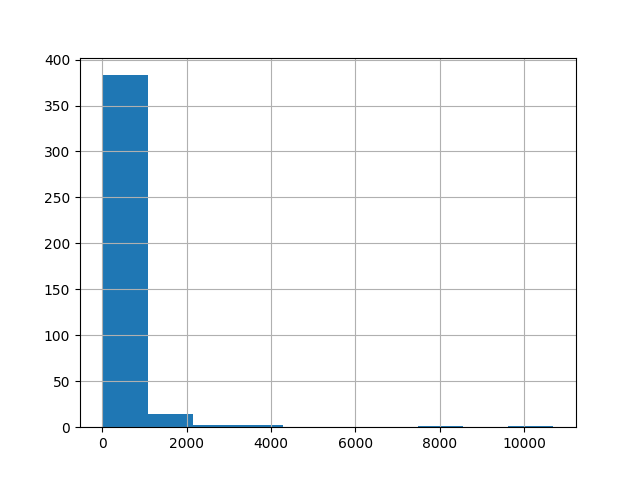
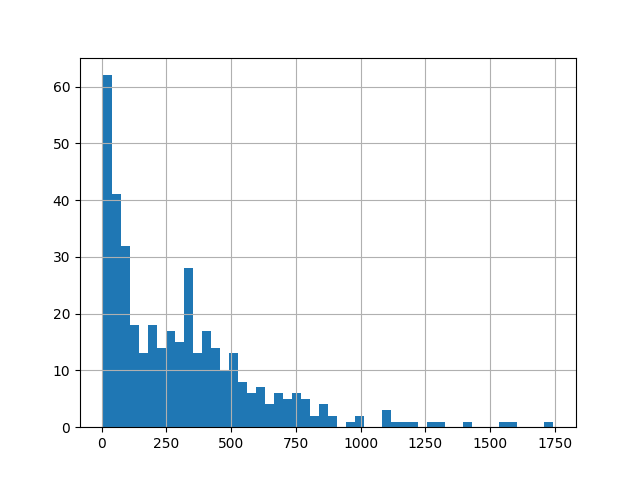
Use only close to median values in histogram

diff --git a/groupedViz.py b/groupedViz.py
@@ -17,5 +17,9 @@ for week in range(1, 2):
     prefix = 'SECONDS_SPENT_ON_viikko0' + str(week) + '_'
     for col in df.filter(regex=prefix + '.*', axis=1).columns[:2]:
         name = col.replace(prefix, '')
-        df[col].hist()
+        data = df[col]
+        med = data.median()
+        std = data.std()
+        data = data[data < med + std]
+        data.hist(bins=50)
         save_plot(name)
